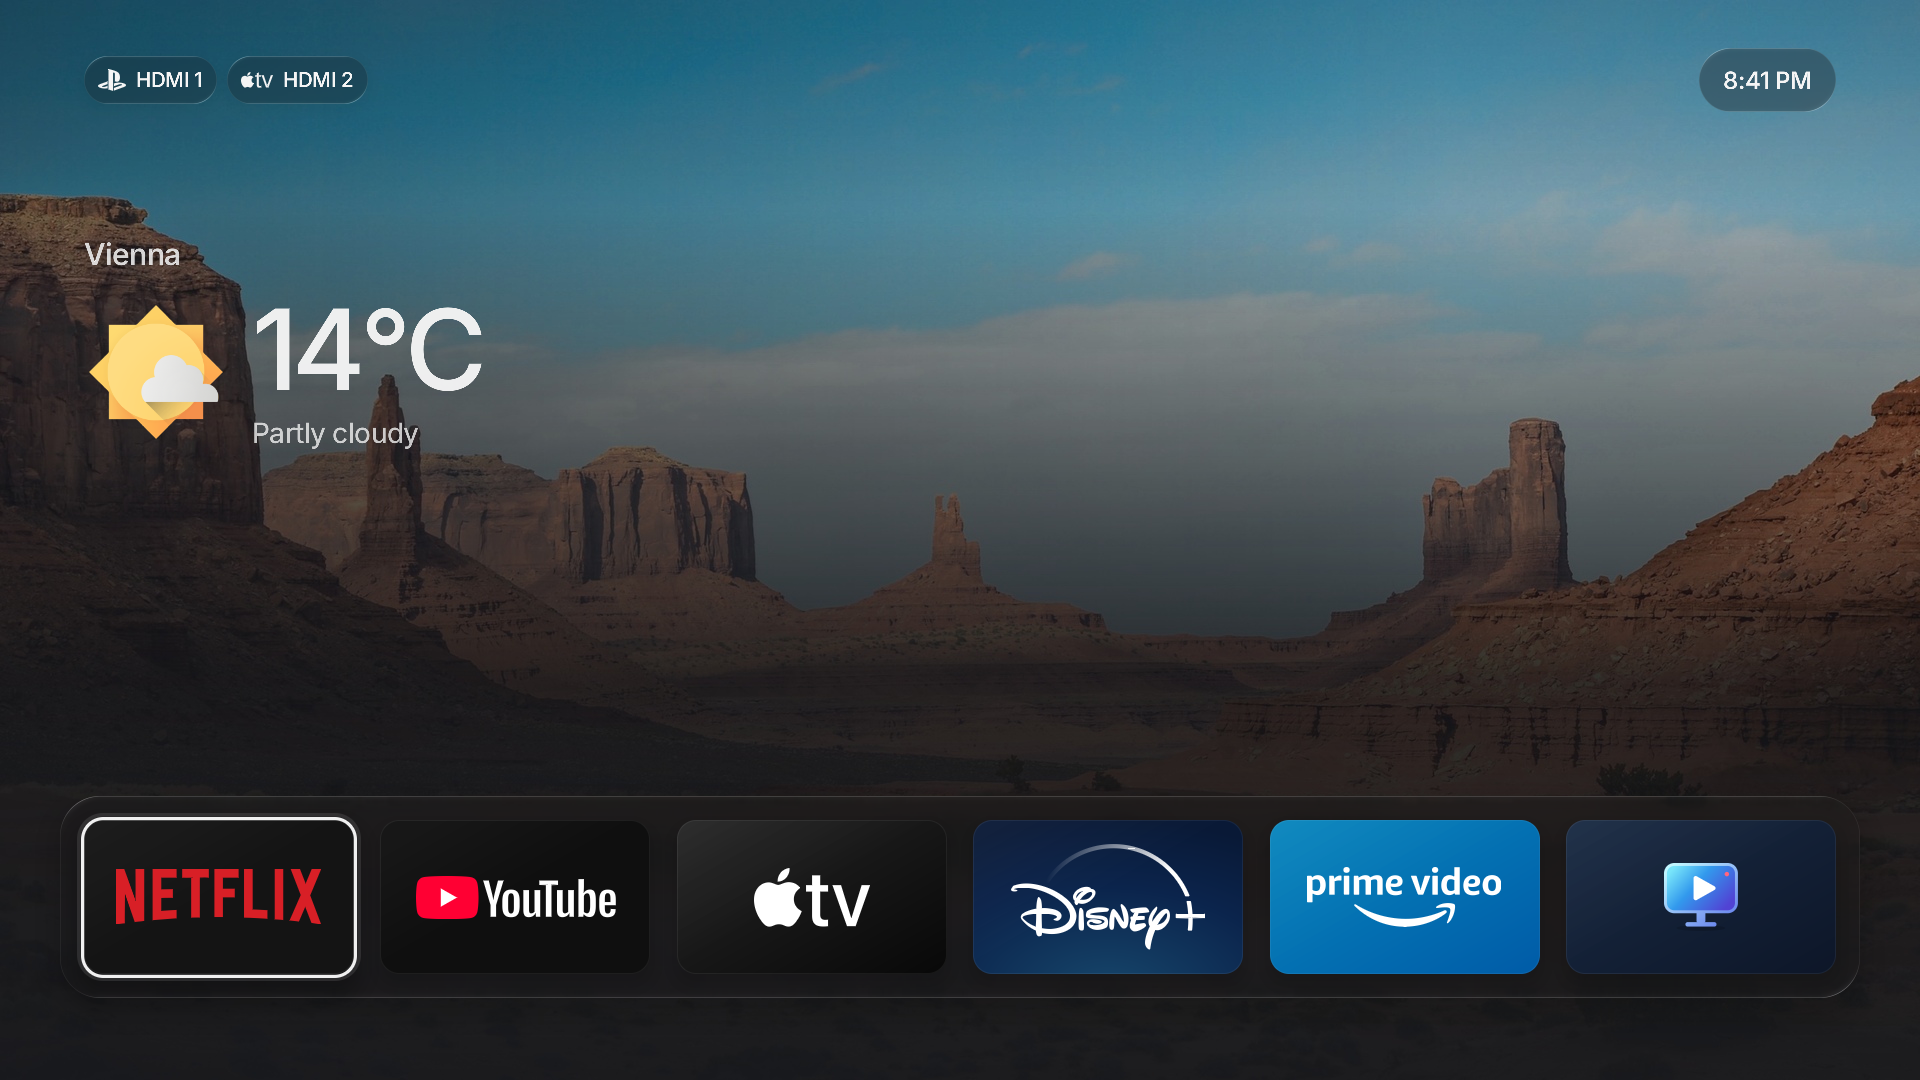
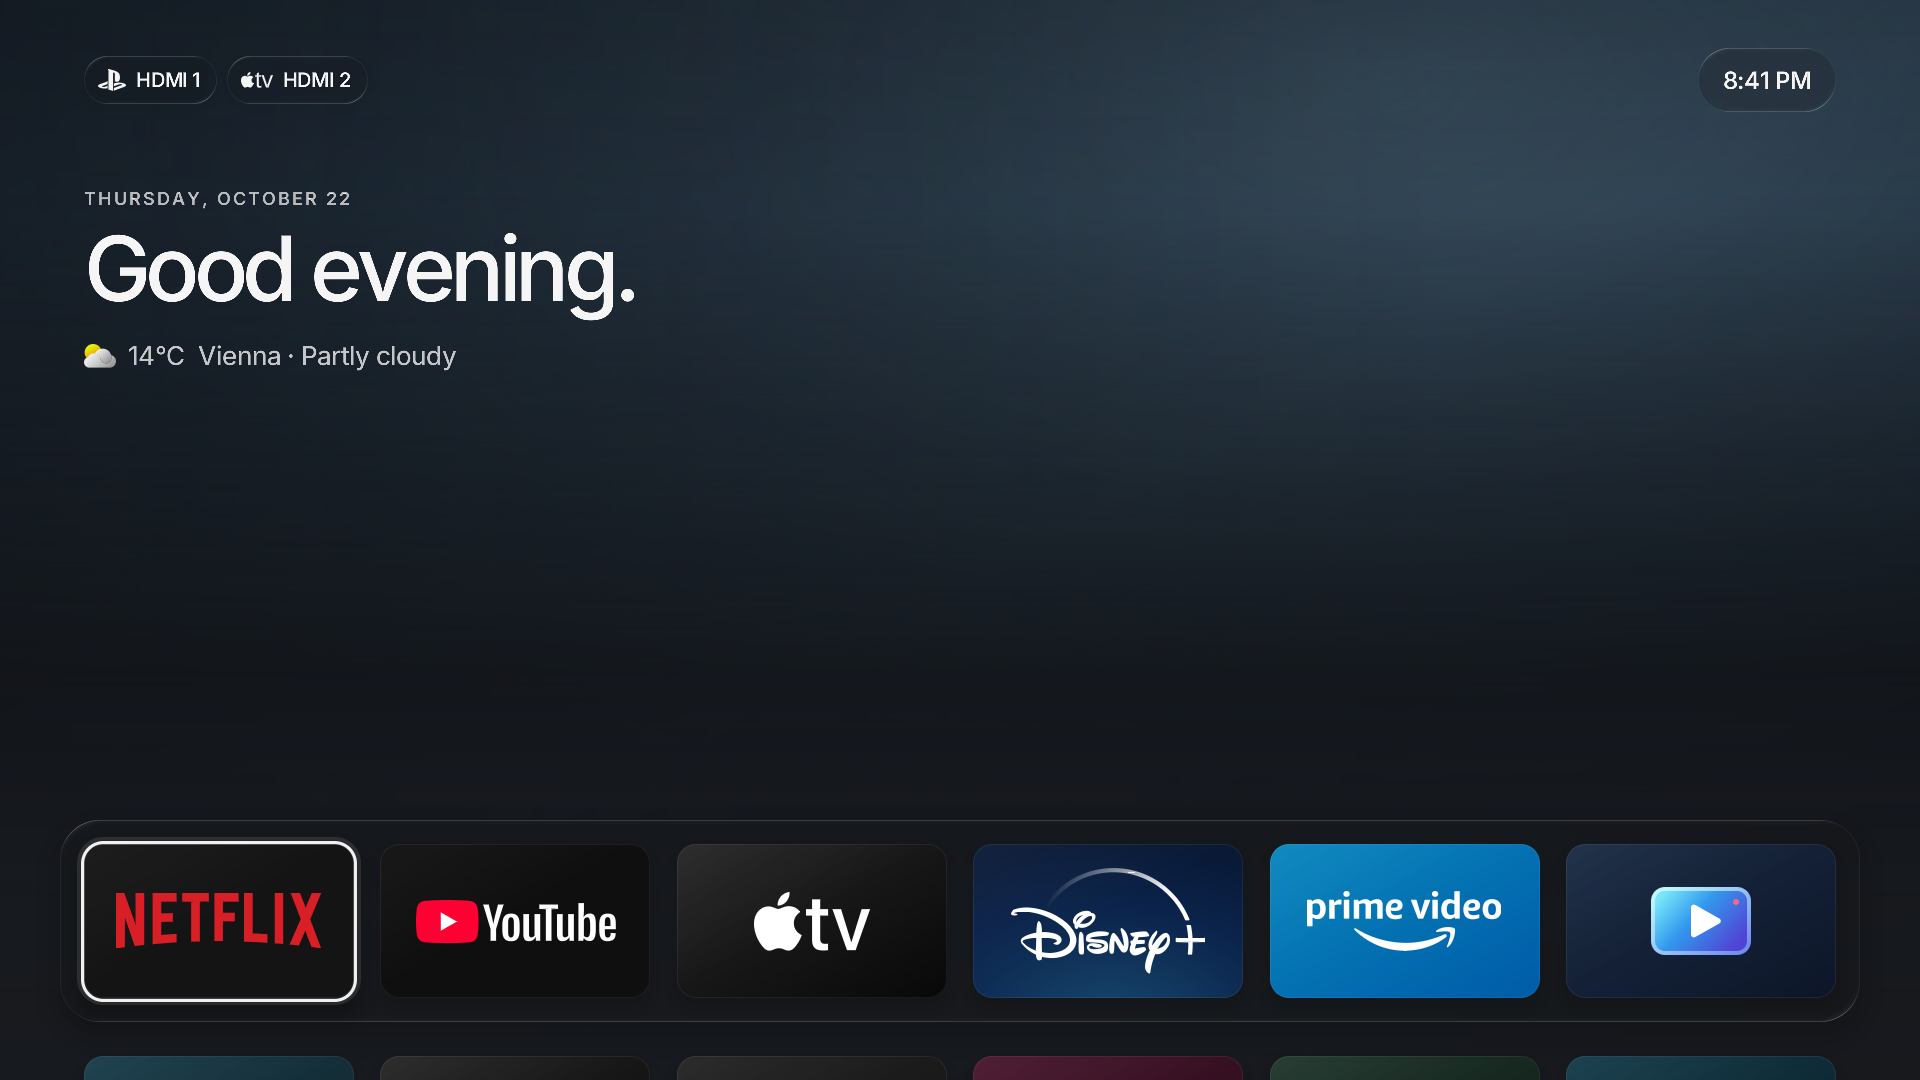
Default to inline weather and recover from startup forecast failures (#375)
* Default to inline weather and retry startup forecast failures

* test: preserve saved weather layout across translation fixtures

diff --git a/src/weather-style-tests.rs b/src/weather-style-tests.rs
@@ -8,6 +8,9 @@ use crate::{
 
 fn configured() -> State {
     let mut state = ready();
+    // Layout-specific checks retain an explicitly configured Standard widget.
+    state.preferences.weather_style = WeatherStyle::Standard;
+    state.preferences.weather_position = crate::model::WidgetPosition { column: 4, row: 0 };
     let location = weather::Location {
         name: "Vienna".into(),
         region: String::new(),
@@ -530,9 +533,51 @@ fn hidden_location_style_previews_are_private_but_configuration_keeps_city() {
 }
 
 #[test]
+fn unset_weather_defaults_to_one_line_below_greeting_without_overwriting_saved_choices() {
+    use crate::model::{HomeWidget, WidgetPosition};
+    let mut defaults: Preferences = serde_json::from_str(r#"{"extra_weather":[{}]}"#).unwrap();
+    defaults.sanitize();
+    assert_eq!(defaults.weather_style, WeatherStyle::OneLine);
+    assert_eq!(
+        defaults.weather_position,
+        WidgetPosition { column: 0, row: 1 }
+    );
+    assert_eq!(defaults.widget_span(HomeWidget::Weather), (2, 1));
+    assert!(defaults.can_place_widget(HomeWidget::Weather, defaults.weather_position));
+    assert_eq!(defaults.extra_weather[0].style, WeatherStyle::OneLine);
+    for (json, style, position) in [
+        (
+            r#"{"weather_style":"standard","weather_position":{"column":4,"row":0}}"#,
+            WeatherStyle::Standard,
+            WidgetPosition { column: 4, row: 0 },
+        ),
+        (
+            r#"{"weather_style":"compact","weather_position":{"column":3,"row":2}}"#,
+            WeatherStyle::Compact,
+            WidgetPosition { column: 3, row: 2 },
+        ),
+        (
+            r#"{"weather_style":"compact"}"#,
+            WeatherStyle::Compact,
+            WidgetPosition { column: 0, row: 1 },
+        ),
+        (
+            r#"{"weather_position":{"column":4,"row":0}}"#,
+            WeatherStyle::OneLine,
+            WidgetPosition { column: 4, row: 0 },
+        ),
+    ] {
+        let mut prefs: Preferences = serde_json::from_str(json).unwrap();
+        prefs.sanitize();
+        assert_eq!(prefs.weather_style, style);
+        assert_eq!(prefs.weather_position, position);
+    }
+}
+
+#[test]
 fn weather_styles_default_and_round_trip_without_changing_other_preferences() {
     let old: Preferences = serde_json::from_str("{}").unwrap();
-    assert_eq!(old.weather_style, WeatherStyle::Standard);
+    assert_eq!(old.weather_style, WeatherStyle::OneLine);
     for style in WeatherStyle::ALL {
         let mut state = configured();
         state.preferences.weather_style = style;
@@ -950,6 +995,7 @@ fn weather_grid_keeps_original_temperature_typography_and_spacing() {
 #[test]
 fn style_picker_previews_every_design_offline_and_only_saves_on_selection() {
     let mut state = ready();
+    state.preferences.weather_style = WeatherStyle::Standard;
     state.open(2);
     state.section = WIDGETS_SECTION;
     state.subpage = Some(Subpage::Weather);

diff --git a/src/weather-tests.rs b/src/weather-tests.rs
@@ -135,6 +135,70 @@ fn hidden_weather_widgets_do_not_request_forecasts() {
 }
 
 #[test]
+fn cold_boot_retries_without_leaving_home_and_recovers_when_network_is_ready() {
+    let preferences = preferences();
+    let mut weather = Weather::default();
+    let Some(Command::Forecast { id, location }) = weather.sync(&preferences, true, 1000).0 else {
+        panic!()
+    };
+    weather.accept_forecast(id, &location.key(), Err("network not ready".into()), 1000);
+    assert!(weather.sync(&preferences, true, 1009).0.is_none());
+    let Some(Command::Forecast { id, location }) = weather.sync(&preferences, true, 1010).0 else {
+        panic!()
+    };
+    assert!(
+        weather.sync(&preferences, true, 1011).0.is_none(),
+        "Only one request may be in flight"
+    );
+    let (changed, persist) = weather.accept_forecast(id, &location.key(), Ok(reading()), 1012);
+    assert!(changed);
+    assert!(matches!(persist, Some(Command::Persist(_))));
+    assert_eq!(weather.reading(&place()), Some(reading()));
+    assert!(!weather.failed);
+    assert_eq!(weather.initial_failures, 0);
+    assert!(
+        weather
+            .sync(&preferences, true, 1012 + REFRESH_SECONDS - 1)
+            .0
+            .is_none()
+    );
+    assert!(
+        weather
+            .sync(&preferences, true, 1012 + REFRESH_SECONDS)
+            .0
+            .is_some()
+    );
+}
+
+#[test]
+fn initial_retry_backoff_is_bounded_and_resets_for_a_new_location() {
+    let mut preferences = preferences();
+    let mut weather = Weather::default();
+    let mut now = 1000;
+    for delay in [10, 20, 30, 60, 120, RETRY_SECONDS, RETRY_SECONDS] {
+        let Some(Command::Forecast { id, location }) = weather.sync(&preferences, true, now).0
+        else {
+            panic!()
+        };
+        weather.accept_forecast(id, &location.key(), Err("offline".into()), now);
+        assert!(
+            weather
+                .sync(&preferences, true, now + delay - 1)
+                .0
+                .is_none()
+        );
+        now += delay;
+    }
+    assert!(weather.sync(&preferences, false, now).0.is_none());
+    preferences.weather_location.as_mut().unwrap().latitude += 1.;
+    let Some(Command::Forecast { id, location }) = weather.sync(&preferences, true, now).0 else {
+        panic!()
+    };
+    weather.accept_forecast(id, &location.key(), Err("offline".into()), now);
+    assert_eq!(weather.next_fetch, now + 10);
+}
+
+#[test]
 fn weather_failure_keeps_valid_cache_labels_it_saved_and_retries_later() {
     let mut weather = Weather {
         cache: Some(cache(1000)),

diff --git a/src/weather.rs b/src/weather.rs
@@ -9,6 +9,7 @@ use std::collections::HashSet;
 pub const REFRESH_SECONDS: i64 = 15 * 60;
 pub const MAX_CACHE_AGE: i64 = 6 * 60 * 60;
 const RETRY_SECONDS: i64 = 5 * 60;
+const INITIAL_RETRY_SECONDS: [i64; 5] = [10, 20, 30, 60, 120];
 
 #[derive(Clone, Debug, PartialEq, Deserialize, Serialize)]
 pub struct Location {
@@ -243,6 +244,8 @@ pub struct Weather {
     #[serde(skip)]
     next_fetch: i64,
     #[serde(skip)]
+    initial_failures: usize,
+    #[serde(skip)]
     active_home: bool,
 }
 impl Weather {
@@ -304,6 +307,7 @@ impl Weather {
         self.pending = None;
         self.active_key = None;
         self.next_fetch = 0;
+        self.initial_failures = 0;
         self.loading = false;
         self.failed = false;
     }
@@ -422,12 +426,12 @@ impl Weather {
                 };
                 self.cache = Some(cache.clone());
                 self.failed = false;
+                self.initial_failures = 0;
                 self.next_fetch = now + REFRESH_SECONDS;
                 (true, Some(Command::Persist(cache)))
             }
             _ => {
                 self.failed = true;
-                self.next_fetch = now + RETRY_SECONDS;
                 if self
                     .cache
                     .as_ref()
@@ -435,6 +439,19 @@ impl Weather {
                 {
                     self.cache = None;
                 }
+                let usable_cache = self.cache.as_ref().is_some_and(|cache| cache.key == key);
+                let delay = if usable_cache {
+                    RETRY_SECONDS
+                } else {
+                    let delay = INITIAL_RETRY_SECONDS
+                        .get(self.initial_failures)
+                        .copied()
+                        .unwrap_or(RETRY_SECONDS);
+                    self.initial_failures =
+                        (self.initial_failures + 1).min(INITIAL_RETRY_SECONDS.len());
+                    delay
+                };
+                self.next_fetch = now.saturating_add(delay);
                 (true, None)
             }
         }

diff --git a/src/tests.rs b/src/tests.rs
@@ -1838,9 +1838,8 @@ fn weather_location_keyboard_back_and_sidebar_routes_restore_focus() {
     assert_eq!(state.focus, Target::WidgetAdd);
     state.direction(Direction::Down, &controls(&state));
     assert_eq!(state.focus, Target::WidgetCell(0));
-    for _ in 0..4 {
-        state.direction(Direction::Right, &controls(&state));
-    }
+    state.direction(Direction::Down, &controls(&state));
+    assert_eq!(state.focus, Target::WidgetCell(6));
     state.activate();
     assert_eq!(
         state.focus,
@@ -1860,7 +1859,7 @@ fn weather_location_keyboard_back_and_sidebar_routes_restore_focus() {
     assert_eq!(state.focus, Target::WeatherLocation);
     assert_eq!(state.subpage, Some(crate::state::Subpage::Weather));
     state.back();
-    assert_eq!(state.focus, Target::WidgetCell(4));
+    assert_eq!(state.focus, Target::WidgetCell(6));
     assert!(state.subpage.is_none());
     state.back();
     assert_eq!(state.focus, Target::Sidebar(crate::state::WIDGETS_SECTION));
@@ -1927,7 +1926,7 @@ fn home_weather_setup_returns_through_the_widgets_weather_parent() {
     assert_eq!(state.focus, Target::WeatherLocation);
     state.back();
     assert!(state.subpage.is_none());
-    assert_eq!(state.focus, Target::WidgetCell(4));
+    assert_eq!(state.focus, Target::WidgetCell(6));
 }
 
 #[test]

diff --git a/src/model.rs b/src/model.rs
@@ -251,10 +251,10 @@ impl AppSorting {
 #[derive(Clone, Copy, Debug, Default, PartialEq, Eq, Deserialize, Serialize)]
 #[serde(rename_all = "snake_case")]
 pub enum WeatherStyle {
-    #[default]
     Standard,
     NoIcon,
     Compact,
+    #[default]
     OneLine,
 }
 
@@ -397,15 +397,15 @@ impl HomeWidget {
         WidgetPosition {
             column: match self.kind() {
                 Self::Greeting => 0,
-                Self::Weather => 4,
+                Self::Weather => 0,
                 Self::Crypto => 0,
                 Self::Stocks => 1,
                 _ => unreachable!(),
             },
-            row: if matches!(self.kind(), Self::Crypto | Self::Stocks) {
-                2
-            } else {
-                0
+            row: match self.kind() {
+                Self::Weather => 1,
+                Self::Crypto | Self::Stocks => 2,
+                _ => 0,
             },
         }
     }
@@ -431,7 +431,7 @@ impl Default for WeatherWidgetSettings {
     fn default() -> Self {
         Self {
             enabled: false,
-            position: WidgetPosition::default(),
+            position: HomeWidget::Weather.default_position(),
             location: None,
             unit: Unit::default(),
             small: false,

diff --git a/src/glass-home-tests.rs b/src/glass-home-tests.rs
@@ -4,6 +4,14 @@ use crate::{
     state::{APPS_SECTION, Rect, Subpage},
 };
 
+// These grid and layout regressions exercise a saved, two-row Standard widget.
+fn ready() -> State {
+    let mut state = super::ready();
+    state.preferences.weather_style = crate::model::WeatherStyle::Standard;
+    state.preferences.weather_position = crate::model::WidgetPosition { column: 4, row: 0 };
+    state
+}
+
 #[test]
 fn inputs_have_their_own_sidebar_section_directly_below_apps() {
     use crate::state::{INPUTS_SECTION, SETTINGS_ORDER, WIDGETS_SECTION};
@@ -449,7 +457,7 @@ fn widget_positions_default_to_requested_spans_and_sanitize_safely() {
     );
     assert_eq!(
         preferences.weather_position,
-        WidgetPosition { column: 4, row: 0 }
+        WidgetPosition { column: 0, row: 1 }
     );
     assert!(preferences.weather_visible());
     for greeting in 0..crate::model::HOME_GRID_CELLS {

diff --git a/development.md b/development.md
@@ -246,8 +246,9 @@ other apps need manual hardware verification. A desktop-only backend check is av
 The unavailable-backend check runs with
 `SDL_AUDIODRIVER=luma-unavailable cargo test --locked --bin luma unavailable_audio_ -- --ignored --test-threads=1`.
 
-Weather → Widget style persists `weather_style` (`standard`, the default, `compact`,
-or `one_line`). Home and Settings use the same native layout and painting functions.
+Weather → Widget style persists `weather_style` (`standard`, `compact`, or `one_line`, the default).
+Unset weather positions default to column 0, row 1 below Greeting. Saved styles and positions
+remain unchanged. Home and Settings use the same native layout and painting functions.
 The picker shows all three designs with offline sample weather, using the saved
 temperature unit and location visibility. Browsing does not change preferences or fetch a forecast. OK/click
 saves a style and returns to Weather, while Back/Left cancels without changing the style.
@@ -1226,7 +1227,9 @@ visible, the widget enabled and a city configured. ureq/rustls uses embedded cer
 an eight-second timeout, no redirects/proxy and 256 KiB reply limits. Search/forecast/cache writes
 have separate workers and generation IDs, avoiding stale responses overwriting current state.
 Fresh Celsius readings are reused for 15 minutes; valid saved data lasts up to six hours and
-failure retries after five minutes. Unit changes convert unrounded cached Celsius immediately.
+failures with a usable saved reading retry after five minutes. Without a reading, retries happen
+after 10, 20, 30, 60 and 120 seconds, then every five minutes while Home is visible. Success or
+a location change resets this bounded startup backoff. Unit changes convert unrounded cached Celsius immediately.
 Removing a city clears its cache. The `.weather.json` sidecar uses Unix-seconds timestamps.
 Mock servers accept only literal loopback HTTP origins and are refused in TV builds.
 

diff --git a/.changeset/inline-weather-startup-retries.md b/.changeset/inline-weather-startup-retries.md
@@ -1,0 +1,5 @@
+---
+"lg-luma": patch
+---
+
+Default unconfigured weather widgets to the One line layout below Greeting without changing saved styles or positions. Retry weather more quickly when the network is unavailable during startup, using bounded backoff until the first reading succeeds.
